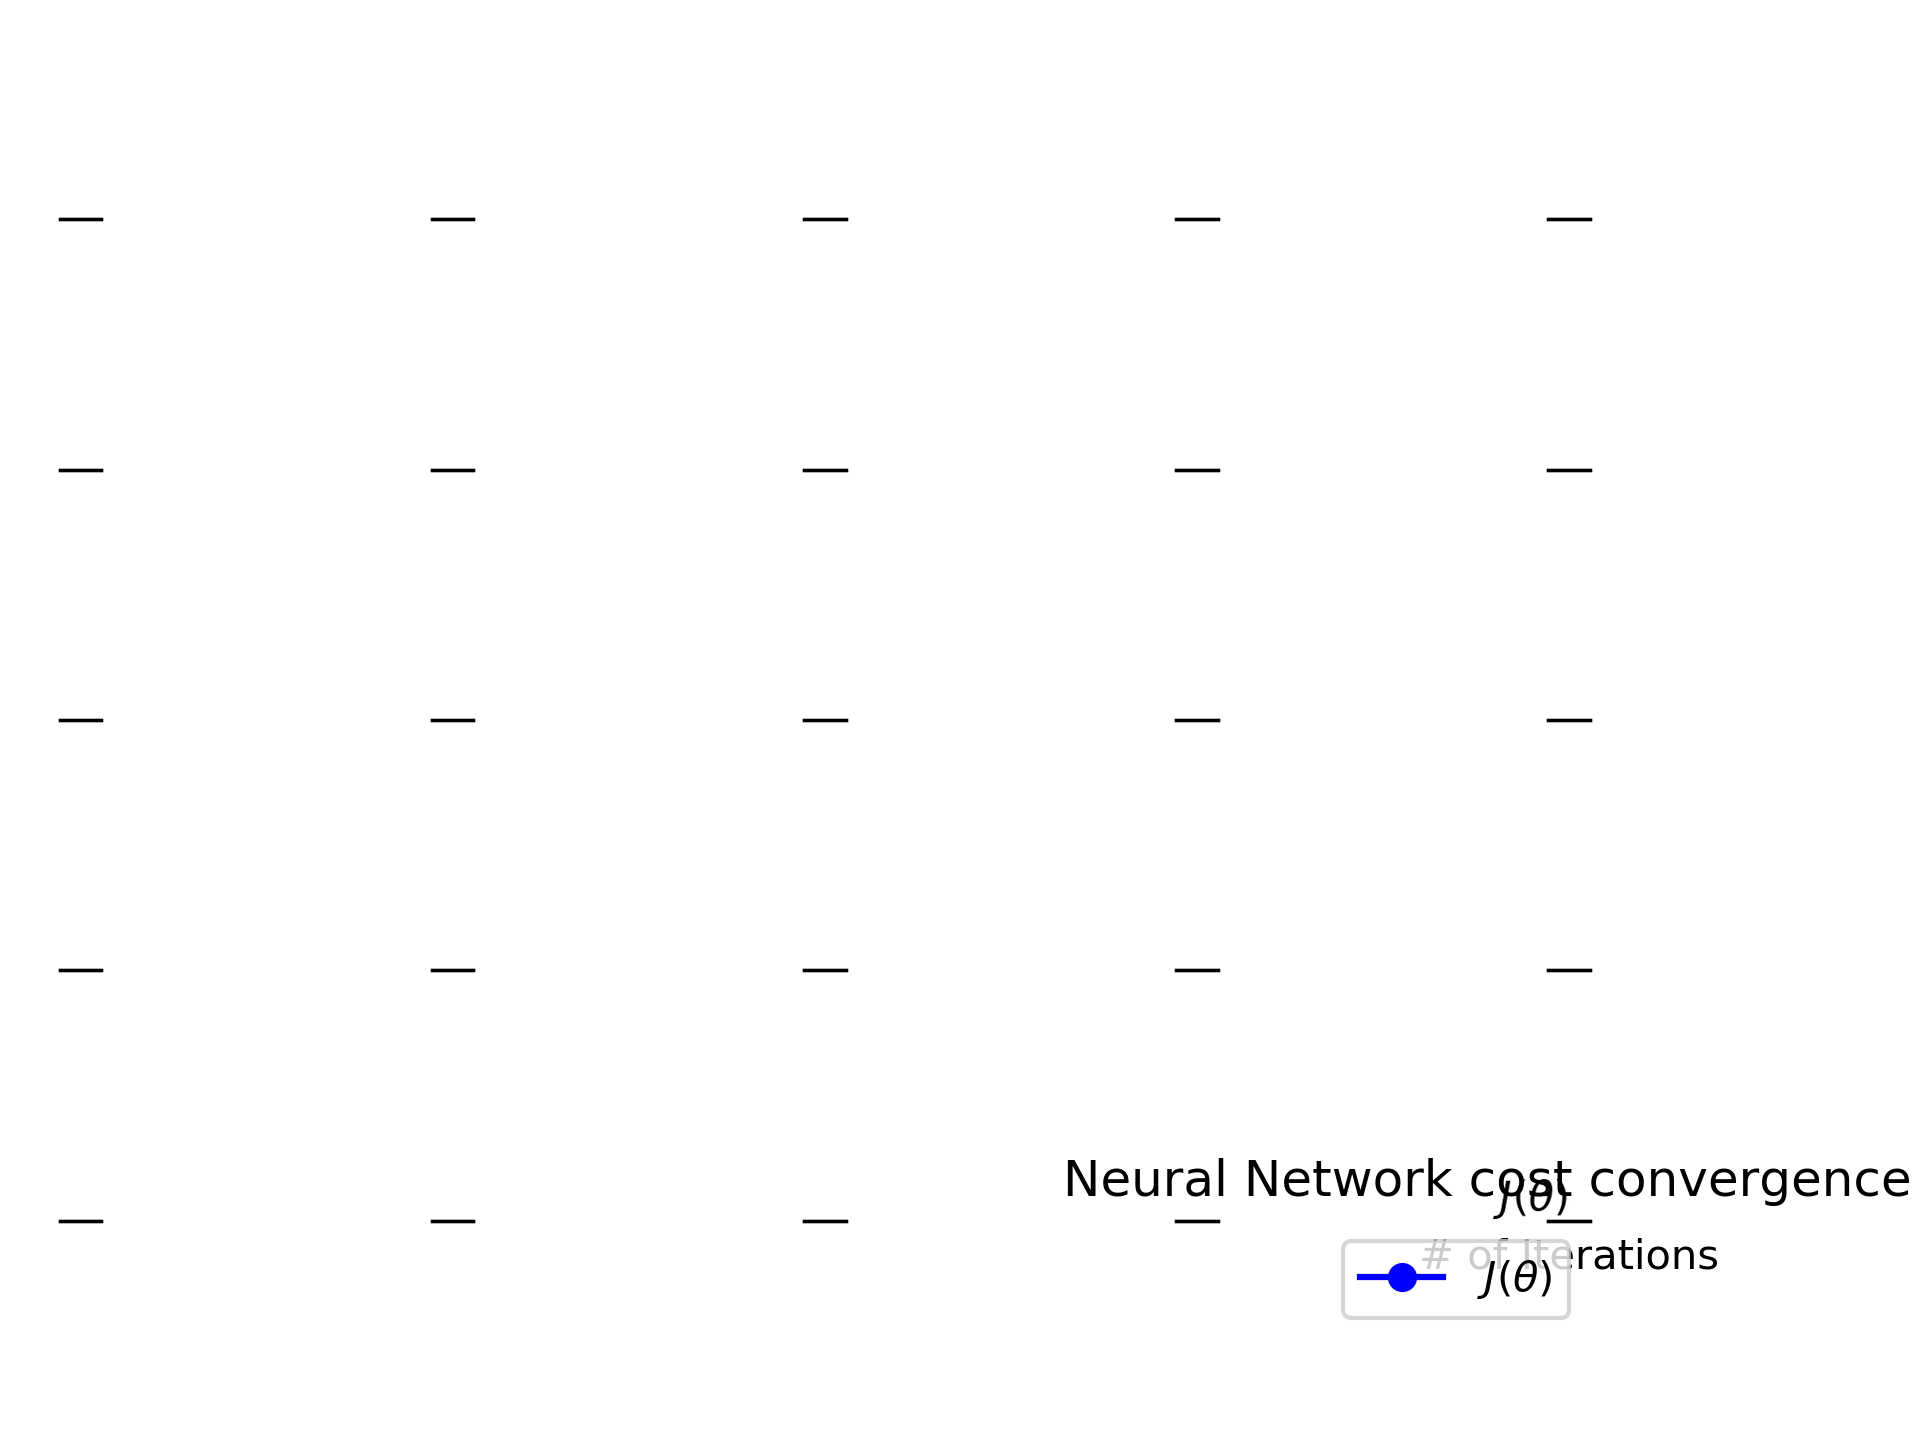
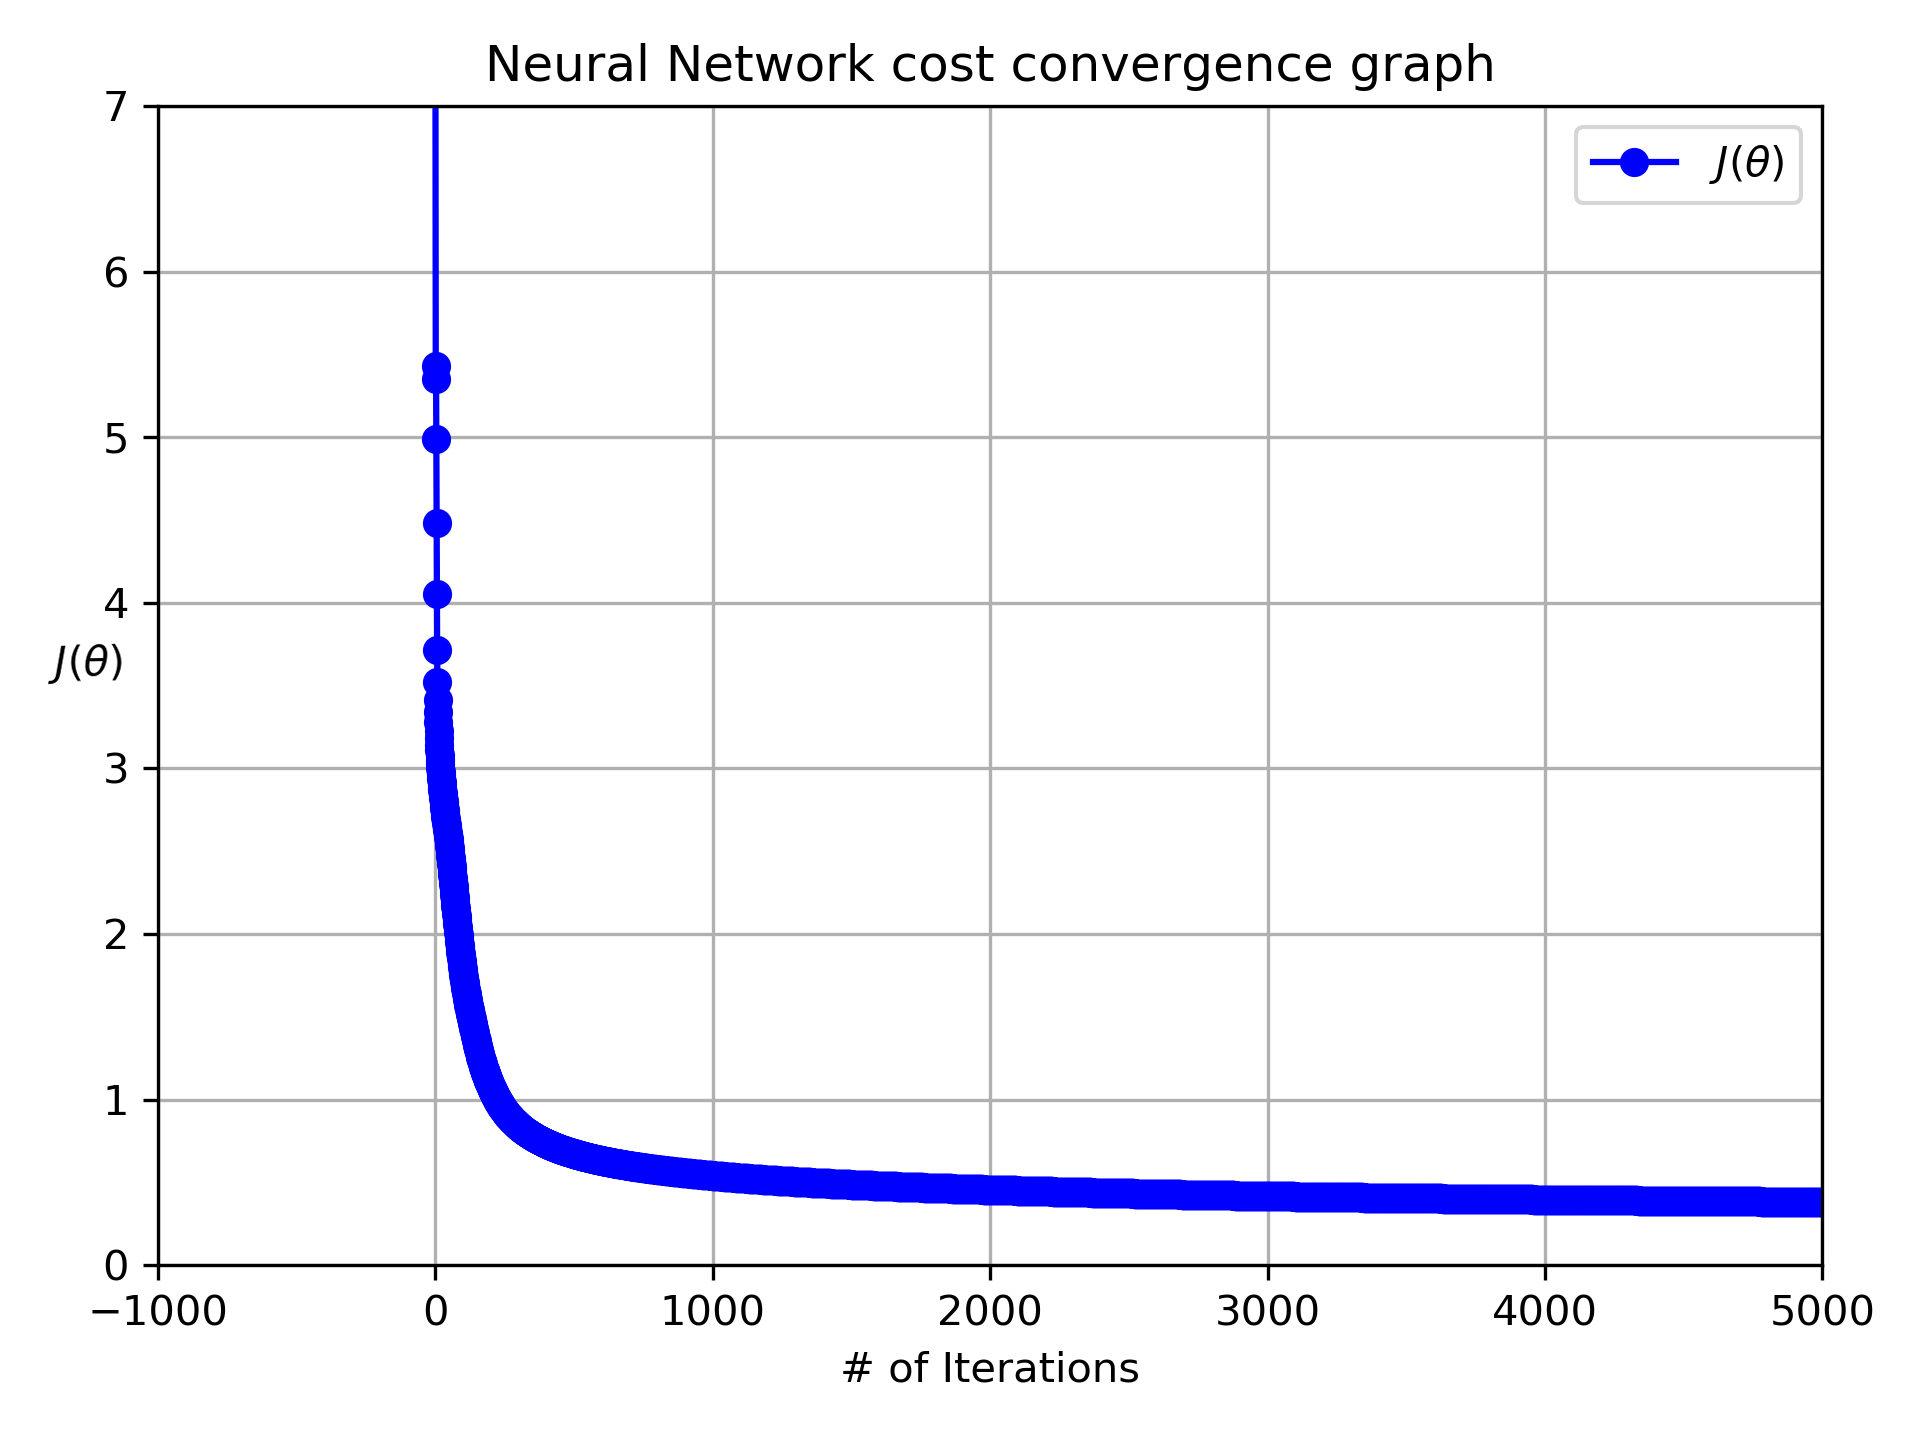
# Modified the ex4.py

diff --git a/ex4/ex4.py b/ex4/ex4.py
@@ -168,10 +168,7 @@ class NeuralNetwork(object):
                                            input_layer_size,
                                            hidden_layer_size,
                                            num_labels)
-            
-        # -------------------------------------------------------------
-        # Retrieving parameters
-        # -------------------------------------------------------------
+        
         W1 = parameters["W1"]
         W2 = parameters["W2"]
   
@@ -194,6 +191,7 @@ class NeuralNetwork(object):
 # Visualize sample digits
 def visualize_data(x):
     fig, ax = plt.subplots(nrows =5, ncols=5,sharex=True, sharey=True)
+    h = plt.figure(1)
     ax = ax.flatten()
     m = x.shape[0]
     for i in range(25):
@@ -206,7 +204,7 @@ def visualize_data(x):
     plt.show(block=False)
 
 def nnLearningCurve(cost_vec):
-    #plt.figure(figsize=(10,8)) #IF YOU WANT TO RESIZE THE FIGURE SIZE REMOVE THE HASHTAG CHARACTER
+    g = plt.figure(2)
     plt.plot(range(len(cost_vec)),cost_vec,'b-o', label= r'${J{(\theta)}}$')
     plt.grid(True)
     plt.title("Neural Network cost convergence graph")
